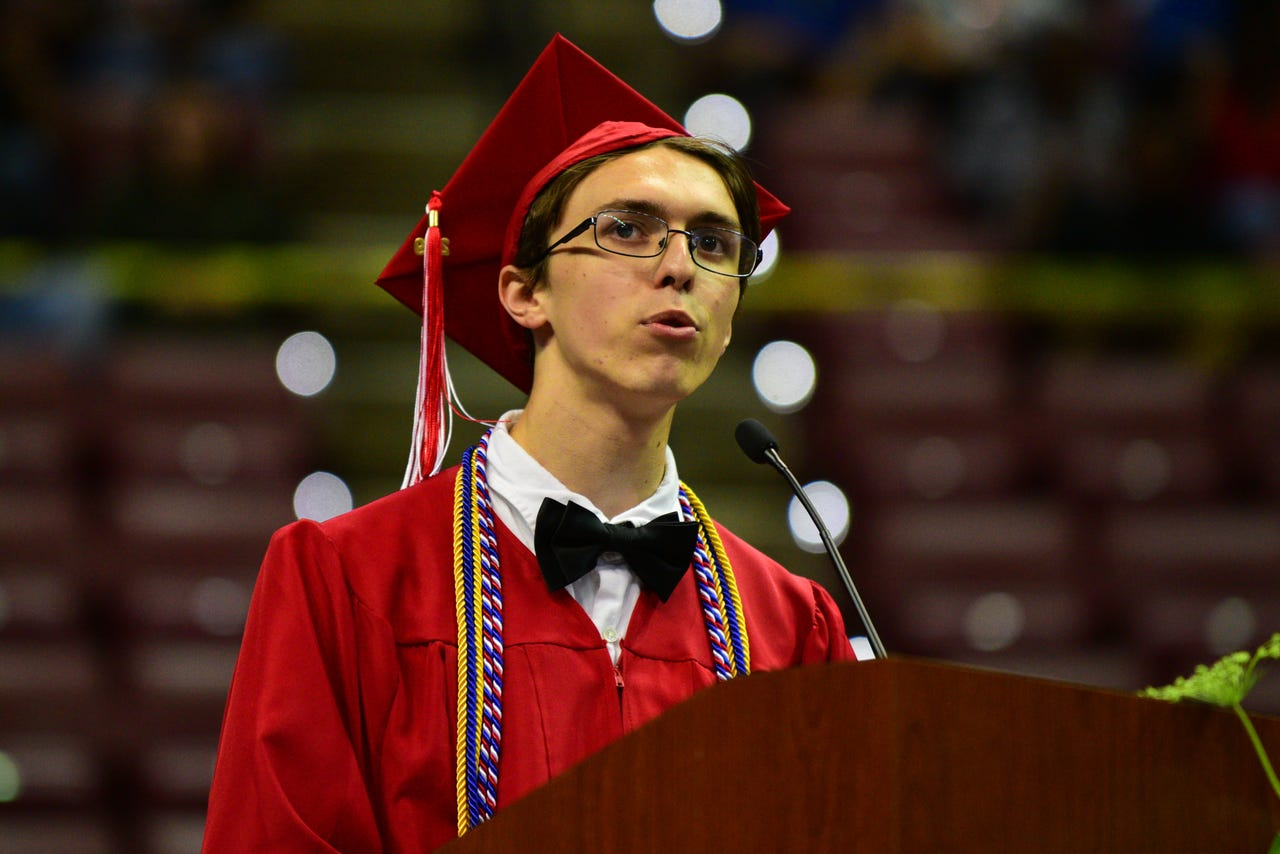
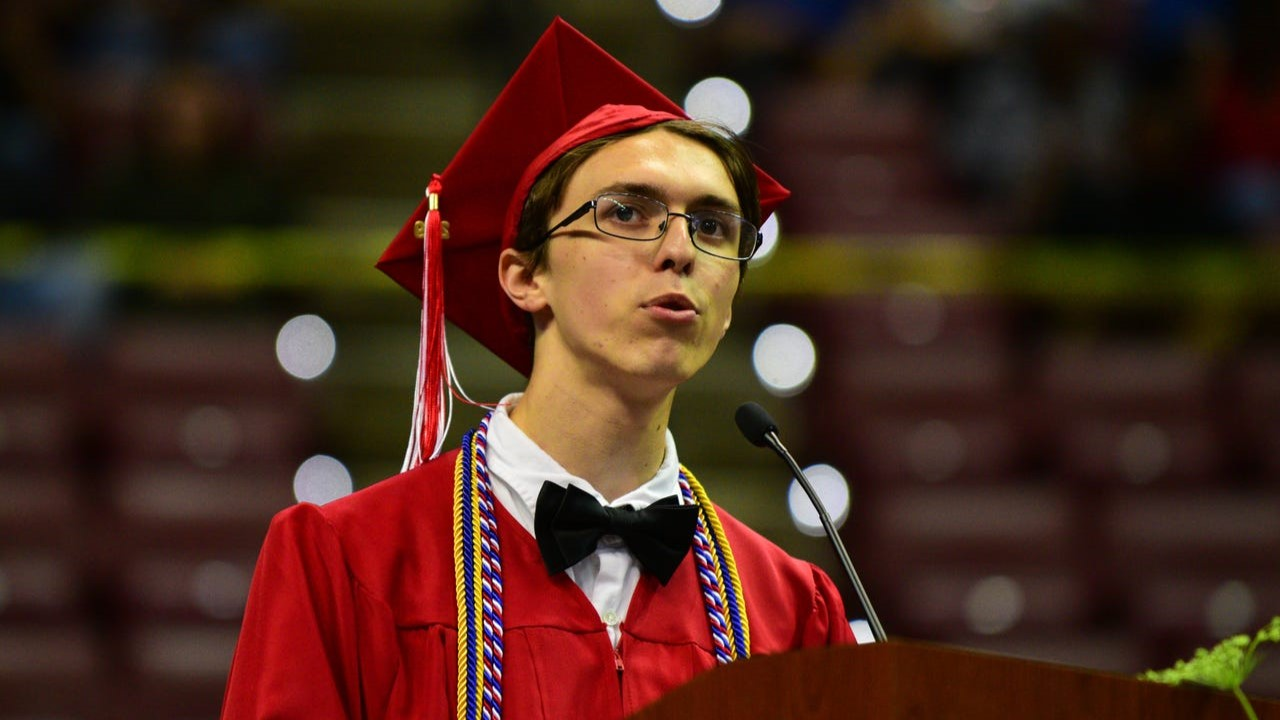
Add 'About Me' and floating image to index.html

diff --git a/index.html b/index.html
@@ -1,45 +1,55 @@
 ---
 title: Portfolio • Daniel Fletcher
-heading: h2 fw-bold mt-4 mb-3
+heading: h2 fw-bold pt-4 pb-3
 ---
 
+
+<!-- CHANGE NAV LINK FOR THIS PAGE TO SAY "HOME" -->
+
+
 <!-- Hero -->
-<section class="container-fluid mx-0 px-0" id="hero-landing-page">
-  <div class="bg-black fg-white d-flex flex-column align-items-center justify-content-center min-vh-100 mh-100 w-100">
+<section class="container-fluid bg-black fg-white mx-0 px-0" id="hero-landing-page">
+  <div class="d-flex flex-column align-items-center justify-content-center min-vh-100 mh-100 w-100">
     <h1 class="align-middle h1 fw-bold">Daniel Fletcher</h1>
     <p class="align-middle fst-italic">Software Engineer • Aspiring Game Developer</p>
   </div>
 </section>
 
-<!-- Recent activity -->
-<section class="container-fluid" id="recent-activity">
-  <h2 class="{{ page.heading }}">Recent Activity</h2>
-  <!-- Add latest activity post here -->
-</section>
-
-<!-- Personal summary -->
+<!-- About me -->
 <section class="container-fluid" id="about-me">
   <h2 class="{{ page.heading }}">About Me</h2>
   <div class="container-fluid mx-0 px-0">
-    <div class="row row-cols-2">
-      <div class="col">
-        <p>My name is Daniel Fletcher, and I have lived in Tallahassee, FL for my entire life! I graduated from Leon High School in 2019, from which I promptly attended Florida State University where I attained a degree in computer science. In December 2022, I graduated from FSU with a Bachelor of Science degree.</p>
-        <p>Lorem ipsum dolor sit amet consectetur adipisicing elit. Impedit accusantium velit, omnis iure laborum consequatur sint rem eaque numquam maxime eveniet at autem officia eligendi repudiandae nostrum maiores expedita accusamus!</p>
-        <p>Lorem ipsum dolor sit amet consectetur adipisicing elit. Maiores in fuga sequi voluptas quam, aut et magni ratione esse voluptates sunt obcaecati. Ratione praesentium minima et obcaecati debitis quia accusamus?</p>
-        <p>Lorem ipsum dolor sit amet consectetur adipisicing elit. Vitae voluptate autem atque ipsum architecto eius quibusdam eligendi nulla error porro sunt culpa, sapiente totam neque? Ullam voluptas consequuntur vel quasi?</p>
-      </div>
-      <div class="col d-flex justify-content-center">
-        <img class="img-flex ratio rounded w-75" src="./assets/img/suit_no_tie.jpg" />
+    <div class="clearfix">
+      <figure class="col-md-6 float-md-end mb-3 ms-md-3">
+        <div class="ratio ratio-16x9">
+          <img src="./assets/img/graduation_speech.jpg" class="img-fluid rounded d-block mx-auto" alt="Daniel gives a speech to the Leon High School Class of 2019." />
+        </div>
+        <figcaption class="text-center fst-italic">Daniel gives a speech to the Leon High School Class of 2019.</figcaption>
+      </figure>
+      <p>My name is Daniel Fletcher, and I have lived in Tallahassee, FL since I was born. In my 22 years in the city, I have met all sorts of amazing people while learning some incredible information. In 2015, I began attending Leon High School, where I would meet classmates and teachers alike that I still talk to to this day. When graduation time came along, I ended up as one of two students to give a speech to the Leon Class of 2019. After graduating, I promptly attended Florida State University where I attained a degree in computer science. In December 2022, I graduated from FSU with a Bachelor of Science degree.</p>
+      <p>My relationship with learning extends beyond the classroom. I have always enjoyed learning, especially researching and self-teaching topics of interest. This mindset encouraged me to continue learning more about computer science long after attaining my degree, which is why I have been hard at work finding resources and working on projects over the past many months. I have learned concepts and applied skills regarding web development, game development, relational databases, and so much more. This portfolio is, in fact, a direct result of the learning endeavor! Despite having graduated from FSU almost a year ago at this point, my learning journey is far from over! In fact, I'd say it's just getting started.</p>  
+      <p>Growing up, I always enjoyed math and logic, as well as a fascination with video games. Oftentimes, I would find myself trying to combine the two to cook up video games of my own. I can remember designing, developing, and implementing custom game modes in Minecraft using redstone and command-block logic as far back as middle school. It wasn't until more recently, however, that I really started to see the breadth of what the game development community has to offer. Whether it be a time-sucking AAA juggernaut or a short-and-sweet independent game or anything in between, the video gaming space consists of so much variety. This is when I truly became fascinated with game development.</p>
+    </div>
+  </div>
+</section>
+
+<!-- Contact information -->
+<section class="container-fluid bg-black fg-white" id="contact-info">
+  <h2 class="{{ page.heading }}">Let's Get Connected</h2>
+  <div class="container">
+    <div class="row gy-5">
+      {% for item in site.data.dev.contact %}
+        <div class="col d-flex justify-content-center align-items-center p-3">
+          <a class="btn btn-primary" href={{ item.link }}>
+            <i class="{{ item.icon }}"></i> {{ item.name }}
+          </a>
+        </div>
+      {% endfor %}
+    </div>
+    <div class="row row-cols-1">
+      <div class="col d-flex justify-content-center align-items-center text-center p-4">
+        <p>For more contact information, visit the <a href={{ "/profiles" | relative_url }}></a> page of the portfolio.</p>
       </div>
     </div>
   </div>
-  <p></p>
-</section>
-
-<!-- Primary contact -->
-<section class="container-fluid bg-black fg-white" id="contact-info">
-  <h2 class="{{ page.heading }}">Let's Get Connected</h2>
-  <a class="btn btn-primary" href="#">
-    <i class="fa-brands fa-linkedin"></i> LinkedIn
-  </a>
 </section>
